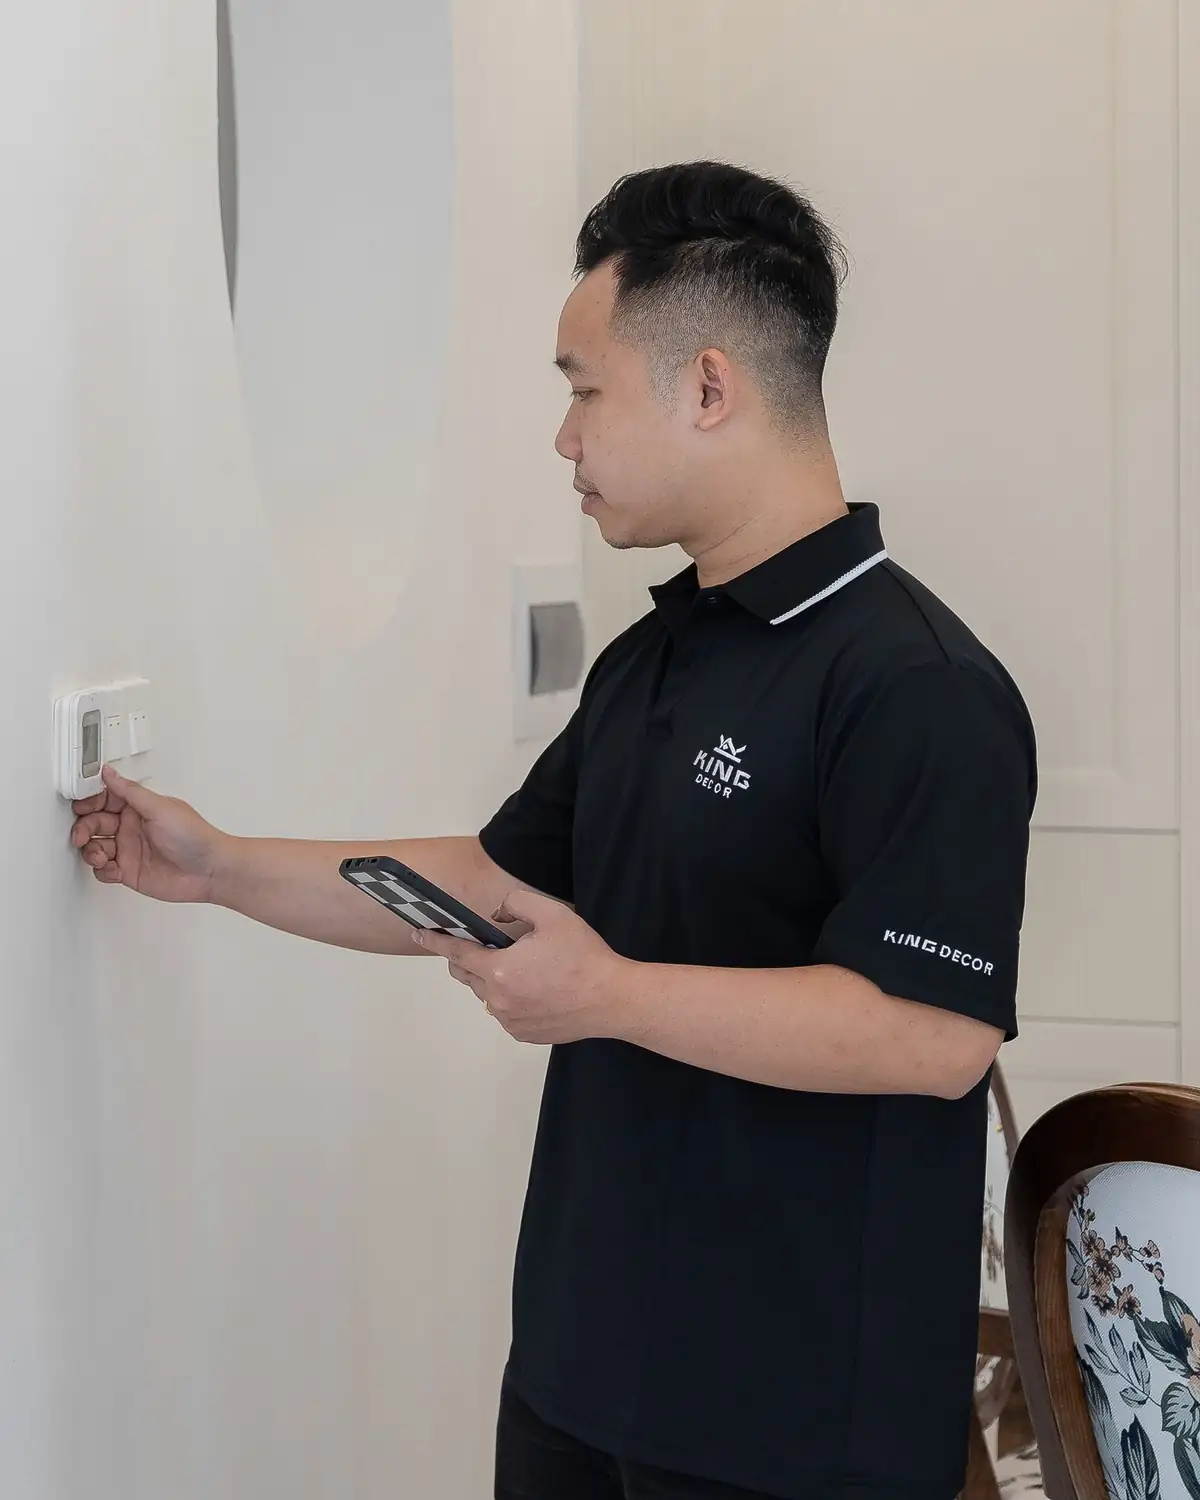
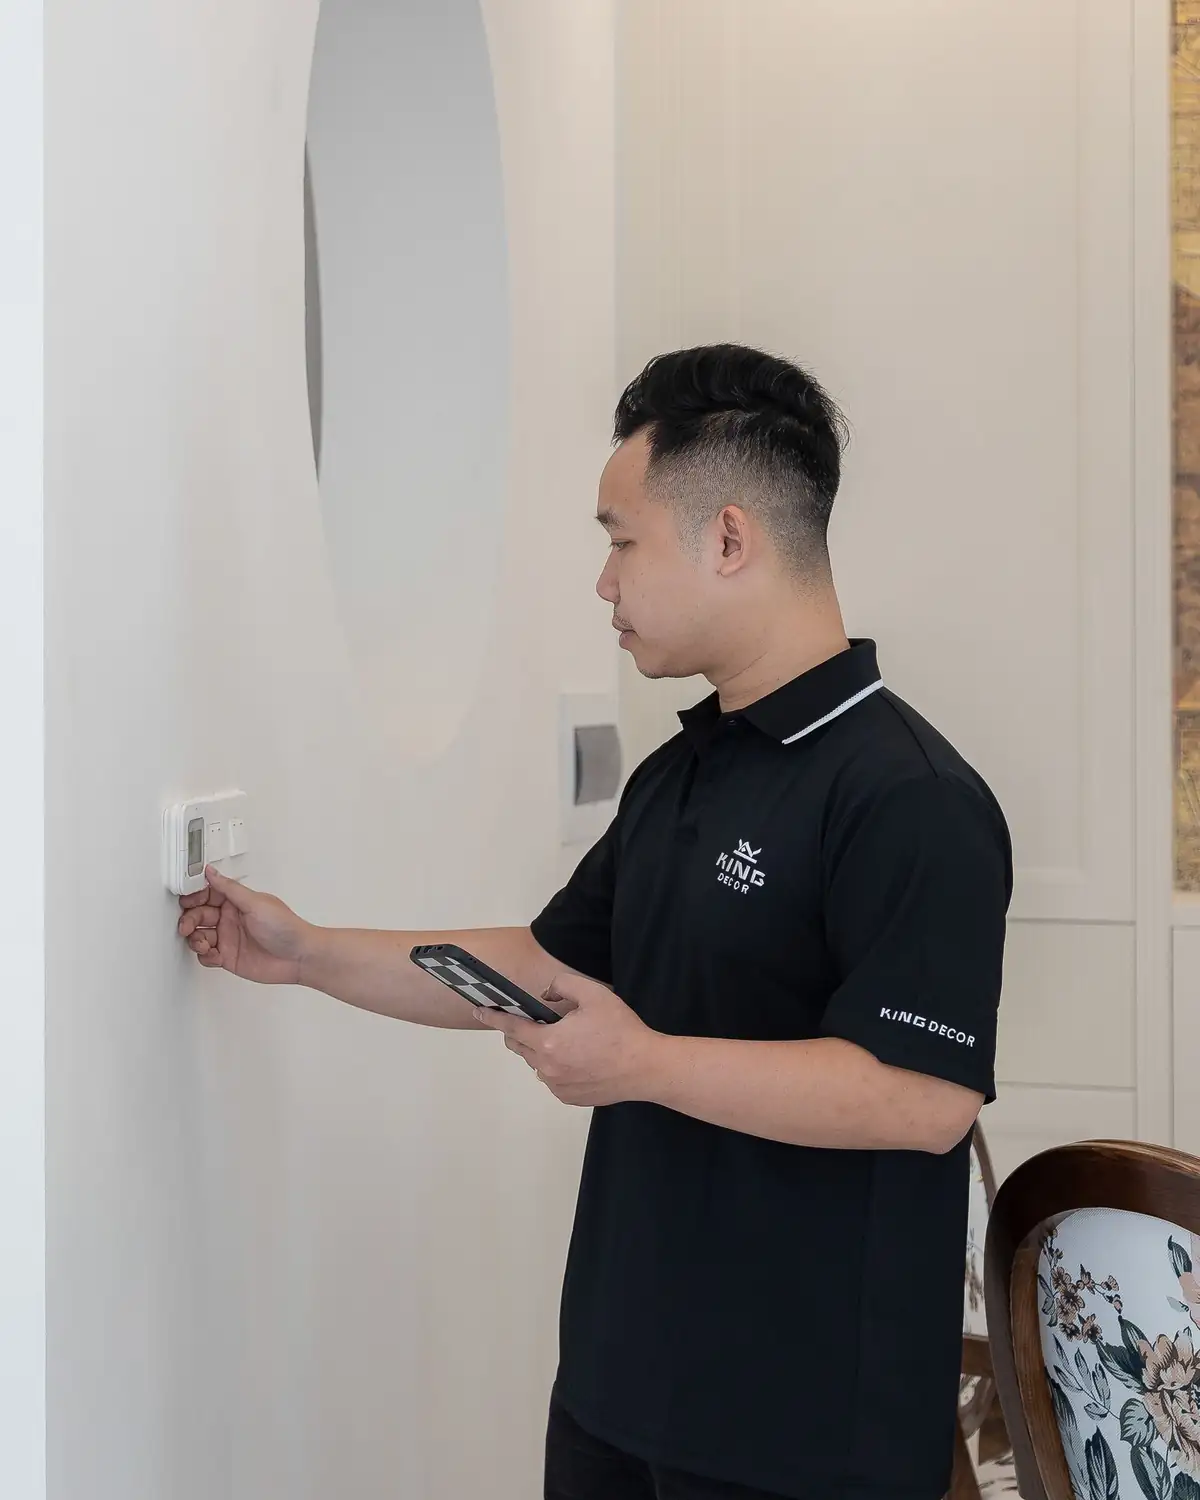
Pinwheel: keep the hero face above the headline on every phone
The phone hero photo is now a fixed 4:5 box at the top of the hero that
fades into the dark under the words, with the crop moved so the face sits
just under the header on short and tall phones alike.

Claude-Session: https://claude.ai/code/session_019WsgfFuoWycD5Erf3ZSnsu

diff --git a/css/pinwheel.css b/css/pinwheel.css
@@ -845,6 +845,8 @@ h1, h2, h3 { text-wrap: balance; }
 @media (max-width: 599px) {
   /* Phones: the face sits just under the header and the words start below it (no text over faces) */
   .pw-hhero { min-height: max(620px, 100svh); padding-top: calc(var(--header-h, 72px) + 150px); }
+  /* The photo is a fixed 4:5 box at the top (face just under the header), fading into the dark below the words */
+  .pw-hhero-photo { bottom: auto; height: 125vw; -webkit-mask-image: linear-gradient(#000 72%, transparent); mask-image: linear-gradient(#000 72%, transparent); }
   .pw-hhero-photo img { object-position: 50% 0; }
   .pw-hhero .pw-pill { display: none; }
   .pw-hhero-h { font-size: clamp(2.5rem, calc((100vw - 32px) / 7.4), 3.2rem); }
